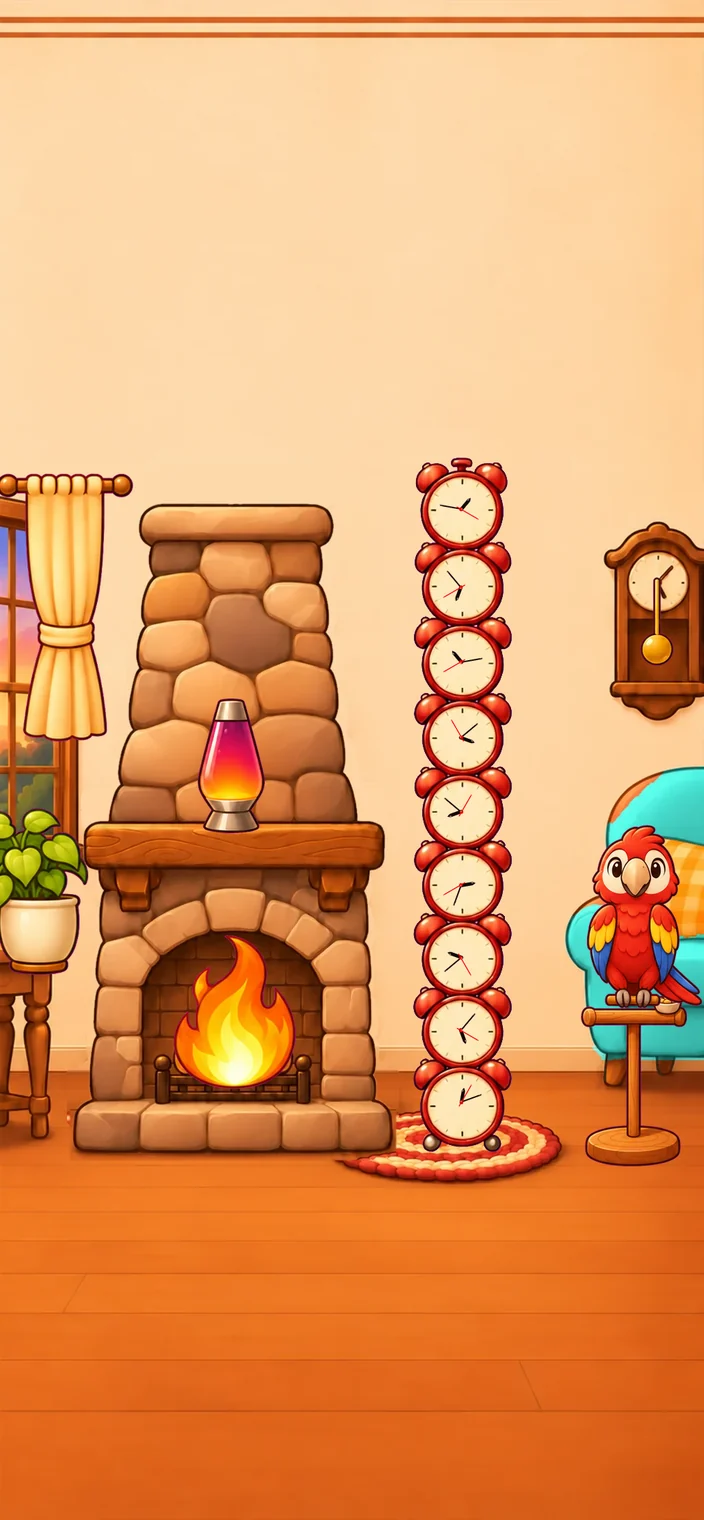
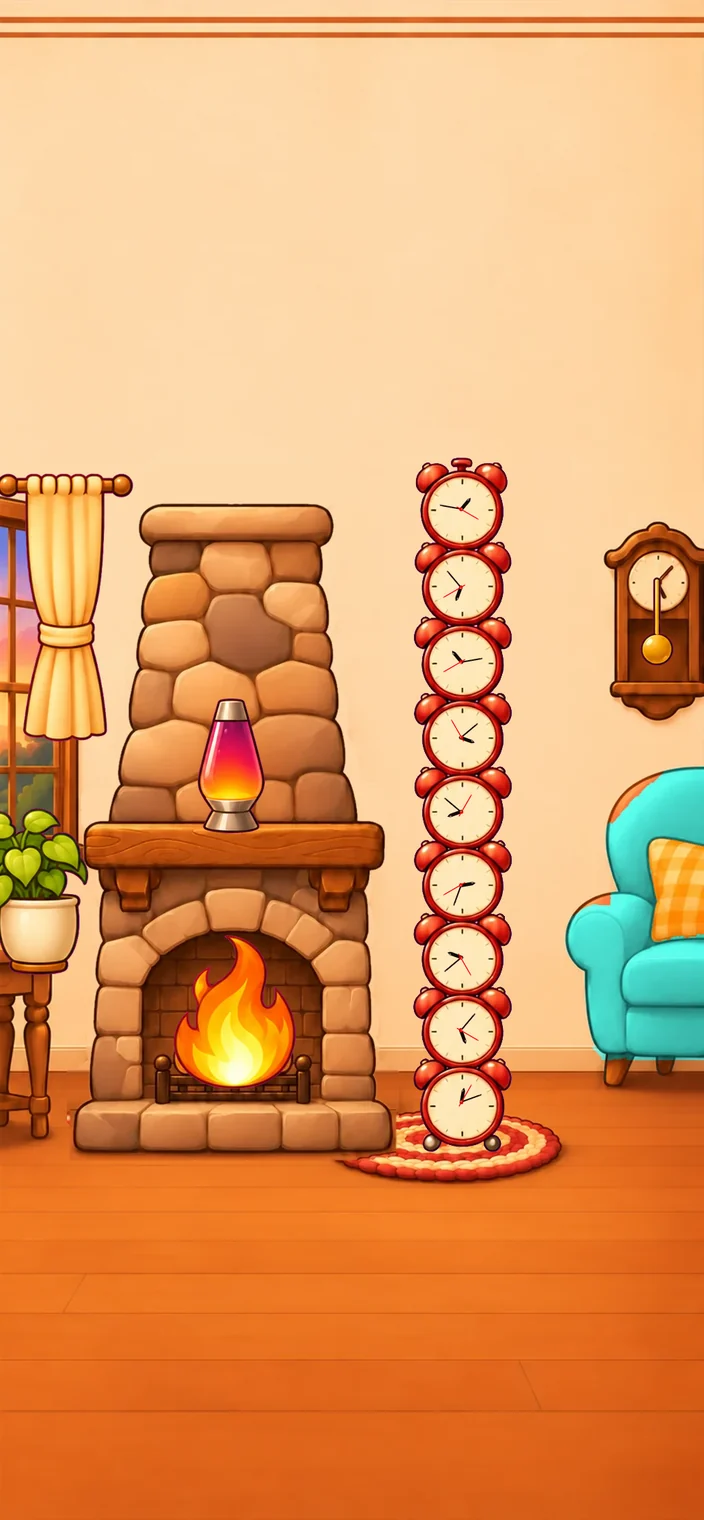
Fireside: remove parrot, tuck curtain behind the chimney
Claude-Session: https://claude.ai/code/session_01LfmF5cxUUBcpb9MQqZTHNz

Changed region(s): [[0.8125, 0.5257, 1.0, 0.773]]

diff --git a/anim/home-bedroom.css b/anim/home-bedroom.css
@@ -57,13 +57,3 @@
 #home-art[data-scene=bedroom] .hs-stage { transform: translate(-50%, -5.5%); }
 #home-art[data-scene=bedroom] .hs-stage::after { content: ""; position: absolute; left: 0; right: 0; top: 100%; height: 8%; background: #d15816; }
 @keyframes lCurtain { 0%,100% { transform: skewX(-1.2deg) scaleX(1); } 50% { transform: skewX(1.6deg) scaleX(1.025); } }
-#home-art[data-scene=bedroom] .b-parrot { transform-origin: 50% 100%; animation: bBob 4.2s ease-in-out infinite; }
-#home-art[data-scene=bedroom] .b-p { position: absolute; left: 0; top: 0; width: 100%; height: auto; opacity: 0; }
-#home-art[data-scene=bedroom] .b-parrot[data-pose=idle] .b-p-idle, #home-art[data-scene=bedroom] .b-parrot[data-pose=tilt-a] .b-p-tilt-a, #home-art[data-scene=bedroom] .b-parrot[data-pose=tilt-b] .b-p-tilt-b,
-#home-art[data-scene=bedroom] .b-parrot[data-pose=blink] .b-p-blink, #home-art[data-scene=bedroom] .b-parrot[data-pose=whistle] .b-p-whistle, #home-art[data-scene=bedroom] .b-parrot[data-pose=wings] .b-p-wings,
-#home-art[data-scene=bedroom] .b-parrot[data-pose=fluff] .b-p-fluff { opacity: 1; }
-#home-art[data-scene=bedroom] .b-parrot[data-bounce] { animation: bBounce .5s ease-out 3; }
-#home-art[data-scene=bedroom] .b-notes { position: absolute; inset: 0; pointer-events: none; }
-#home-art[data-scene=bedroom] .b-note { position: absolute; height: auto; }
-@keyframes bBob { 0%,100% { transform: scale(1, 1); } 50% { transform: scale(1.006, 1.016); } }
-@keyframes bBounce { 0% { transform: translateY(0) scale(1, 1); } 35% { transform: translateY(-3%) scale(.98, 1.03); } 100% { transform: translateY(0) scale(1, 1); } }
